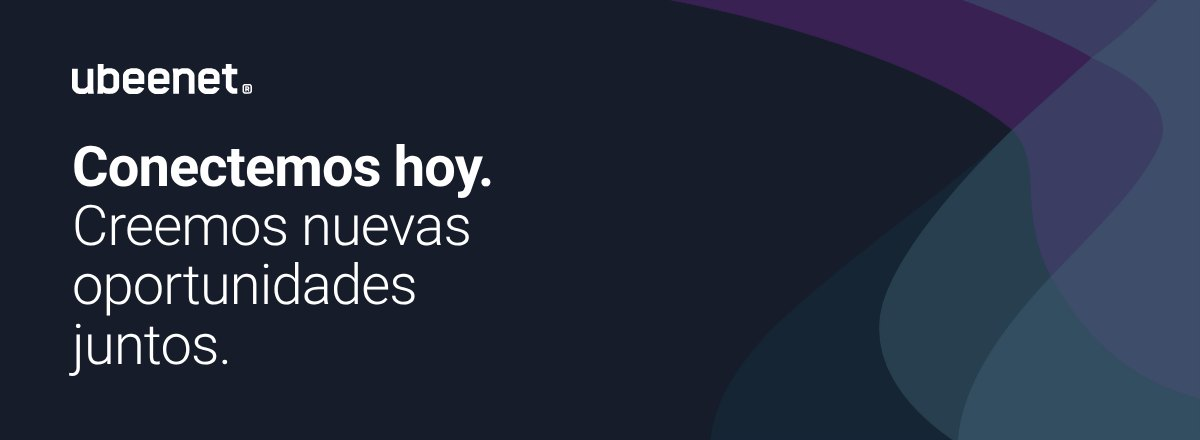
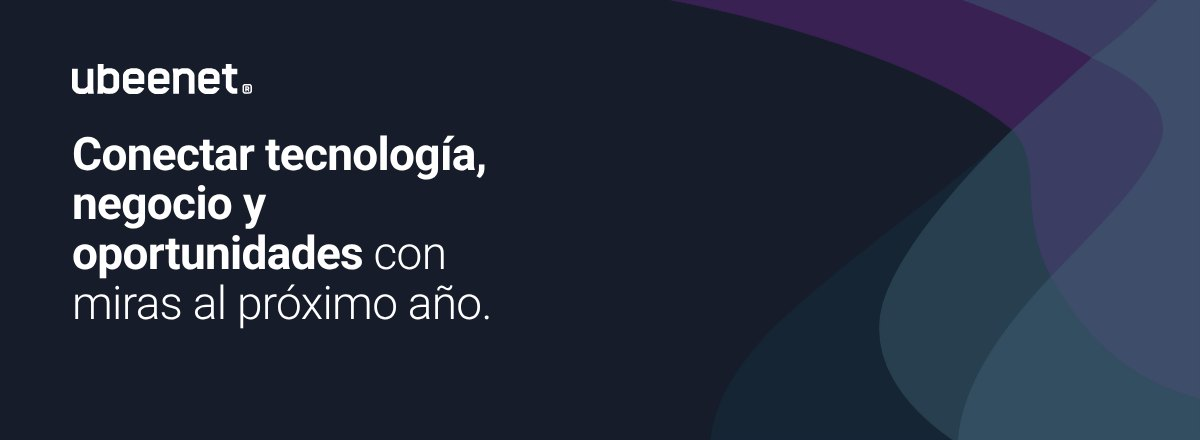
Hero con el texto de la invitación oficial y Adistec en marcas aliadas
- Antetítulo 'Una invitación para', titular 'Conectar tecnología, negocio y oportunidades
  con miras al próximo año.' y subtítulo de la invitación; meta, OG y encabezado de correos igual
- Marcas aliadas (nombre y orden de la invitación): Veeam, ExaGrid, Fortinet, Nutanix, Adistec

Claude-Session: https://claude.ai/code/session_01TdaMnfg424ZMKrGWqLmLWb

Changed region(s): [[0.0617, 0.2955, 0.4317, 0.8568]]

diff --git a/src/config/event.ts b/src/config/event.ts
@@ -44,18 +44,18 @@ export const event = {
     note: 'Contaremos con servicio de valet parking.',
   },
   meta: {
-    title: 'Conectemos hoy · Ubeenet · 26 de noviembre de 2026',
+    title: 'Conectar tecnología, negocio y oportunidades · Ubeenet · 26 de noviembre de 2026',
     description:
-      'Regístrate y acompáñanos en una tarde para compartir ideas, fortalecer relaciones y descubrir nuevas oportunidades de negocios. Jueves 26 de noviembre de 2026, Hotel Campos Polanco, CDMX.',
+      'Una tarde para compartir ideas y explorar oportunidades juntos. Jueves 26 de noviembre de 2026, 5:45 pm, Hotel Campos Polanco, CDMX. Regístrate.',
   },
   hero: {
-    // Cada frase va en su propia línea; el contraste de pesos (700/300) viene de la invitación.
+    // Textos de la invitación oficial. El titular corre seguido; el contraste de pesos (700/300) viene de ella.
+    eyebrow: 'Una invitación para',
     title: [
-      { text: 'Conectemos hoy.', weight: 700 },
-      { text: 'Creemos nuevas oportunidades juntos.', weight: 300 },
+      { text: 'Conectar tecnología, negocio y oportunidades', weight: 700 },
+      { text: ' con miras al próximo año.', weight: 300 },
     ],
-    subtitle:
-      'Regístrate y acompáñanos en una tarde para compartir ideas, fortalecer relaciones y descubrir nuevas oportunidades de negocios.',
+    subtitle: 'Una tarde para compartir ideas y explorar oportunidades juntos.',
     day: 'Jueves',
     date: '26 de noviembre',
   },
@@ -113,14 +113,16 @@ export const event = {
     photoAlt: 'Patio del Hotel Campos Polanco de noche: mesas de madera, sillas tejidas, plantas y lámparas colgantes frente a un muro de ladrillo iluminado.',
   },
   sponsors: {
-    title: 'Patrocinadores',
+    title: 'Marcas aliadas', // como en la invitación oficial
     // Logos monocromos en public/brand/sponsors (generados desde los archivos del cliente).
     // width/height: tamaño del PNG, para dimensionarlos con el mismo peso visual.
     items: [
-      { name: 'Fortinet', file: 'fortinet.png', width: 480, height: 55 },
-      { name: 'Nutanix', file: 'nutanix.png', width: 480, height: 61 },
+      // Mismo orden que la invitación.
       { name: 'Veeam', file: 'veeam.png', width: 428, height: 76 },
       { name: 'ExaGrid', file: 'exagrid.png', width: 480, height: 96 },
+      { name: 'Fortinet', file: 'fortinet.png', width: 480, height: 55 },
+      { name: 'Nutanix', file: 'nutanix.png', width: 480, height: 61 },
+      { name: 'Adistec', file: 'adistec.png', width: 480, height: 133 },
     ],
   },
   faq: {

diff --git a/supabase/functions/_shared/event.ts b/supabase/functions/_shared/event.ts
@@ -45,18 +45,18 @@ export const event = {
     note: 'Contaremos con servicio de valet parking.',
   },
   meta: {
-    title: 'Conectemos hoy · Ubeenet · 26 de noviembre de 2026',
+    title: 'Conectar tecnología, negocio y oportunidades · Ubeenet · 26 de noviembre de 2026',
     description:
-      'Regístrate y acompáñanos en una tarde para compartir ideas, fortalecer relaciones y descubrir nuevas oportunidades de negocios. Jueves 26 de noviembre de 2026, Hotel Campos Polanco, CDMX.',
+      'Una tarde para compartir ideas y explorar oportunidades juntos. Jueves 26 de noviembre de 2026, 5:45 pm, Hotel Campos Polanco, CDMX. Regístrate.',
   },
   hero: {
-    // Cada frase va en su propia línea; el contraste de pesos (700/300) viene de la invitación.
+    // Textos de la invitación oficial. El titular corre seguido; el contraste de pesos (700/300) viene de ella.
+    eyebrow: 'Una invitación para',
     title: [
-      { text: 'Conectemos hoy.', weight: 700 },
-      { text: 'Creemos nuevas oportunidades juntos.', weight: 300 },
+      { text: 'Conectar tecnología, negocio y oportunidades', weight: 700 },
+      { text: ' con miras al próximo año.', weight: 300 },
     ],
-    subtitle:
-      'Regístrate y acompáñanos en una tarde para compartir ideas, fortalecer relaciones y descubrir nuevas oportunidades de negocios.',
+    subtitle: 'Una tarde para compartir ideas y explorar oportunidades juntos.',
     day: 'Jueves',
     date: '26 de noviembre',
   },
@@ -114,14 +114,16 @@ export const event = {
     photoAlt: 'Patio del Hotel Campos Polanco de noche: mesas de madera, sillas tejidas, plantas y lámparas colgantes frente a un muro de ladrillo iluminado.',
   },
   sponsors: {
-    title: 'Patrocinadores',
+    title: 'Marcas aliadas', // como en la invitación oficial
     // Logos monocromos en public/brand/sponsors (generados desde los archivos del cliente).
     // width/height: tamaño del PNG, para dimensionarlos con el mismo peso visual.
     items: [
-      { name: 'Fortinet', file: 'fortinet.png', width: 480, height: 55 },
-      { name: 'Nutanix', file: 'nutanix.png', width: 480, height: 61 },
+      // Mismo orden que la invitación.
       { name: 'Veeam', file: 'veeam.png', width: 428, height: 76 },
       { name: 'ExaGrid', file: 'exagrid.png', width: 480, height: 96 },
+      { name: 'Fortinet', file: 'fortinet.png', width: 480, height: 55 },
+      { name: 'Nutanix', file: 'nutanix.png', width: 480, height: 61 },
+      { name: 'Adistec', file: 'adistec.png', width: 480, height: 133 },
     ],
   },
   faq: {

diff --git a/supabase/functions/register/email.ts b/supabase/functions/register/email.ts
@@ -44,7 +44,7 @@ function layout(opts: { title: string; preheader: string; siteUrl: string; body:
       <table role="presentation" width="600" cellpadding="0" cellspacing="0" border="0" style="width:100%;max-width:600px;">
         <tr>
           <td style="padding:0;">
-            <img src="${header}" width="600" alt="Ubeenet · Conectemos hoy. Creemos nuevas oportunidades juntos." style="display:block;width:100%;max-width:600px;height:auto;border:0;border-radius:16px 16px 0 0;">
+            <img src="${header}" width="600" alt="Ubeenet · Conectar tecnología, negocio y oportunidades con miras al próximo año." style="display:block;width:100%;max-width:600px;height:auto;border:0;border-radius:16px 16px 0 0;">
           </td>
         </tr>
         <tr>

diff --git a/CLAUDE.md b/CLAUDE.md
@@ -19,6 +19,6 @@ Landing de registro del evento de networking de Ubeenet (no tiene nombre propio;
 - Recordatorio: función `reminder` + `.github/workflows/reminder.yml`, programado el miércoles 25 nov ~4:00 pm CDMX a todos los registrados (solo envía en las 48 h previas). *Run workflow* con `mode=test` manda una muestra a labs.publifix@gmail.com. Clave `REMINDER_KEY` derivada del `SUPABASE_ACCESS_TOKEN` en ambos workflows.
 - Supabase está en plan gratuito y se pausa tras ~7 días sin actividad (el formulario muestra "No pudimos guardar tu registro"). `.github/workflows/keepalive.yml` hace una consulta diaria para evitarlo; `.github/workflows/diag.yml` (manual) muestra el estado del proyecto, la base y la función. Si está `INACTIVE`, el usuario lo reactiva en Supabase → *Restore project*.
 - Plantillas de correo: `supabase/functions/register/email.ts` (confirmación al invitado, aviso interno y recordatorio). Encabezado `public/brand/email-header.jpg`, se regenera con `node scripts/email-assets.mjs`.
-- Hero = invitación "Save the date" del cliente: titular "Conectemos hoy. / Creemos nuevas oportunidades juntos." en Roboto (700/300), subtítulo del cliente y formas del fondo redibujadas en vector (`src/components/HeroShapes.astro`, colores exactos de la invitación). Sin video ni animación de fondo. El formulario va en el hero (desktop a la derecha, móvil debajo de los datos).
-- Patrocinadores (Fortinet, Nutanix, Veeam, ExaGrid): `Sponsors.astro`, entre "Qué vas a vivir" y la sede, al inicio del bloque claro. Logos monocromos en `public/brand/sponsors/` (generados desde los archivos del cliente) y dimensionados por área para igualar su peso visual; lista en `event.sponsors`.
+- Hero = invitación oficial del cliente: antetítulo "Una invitación para", titular "**Conectar tecnología, negocio y oportunidades** con miras al próximo año." en Roboto (700/300, corrido) y subtítulo "Una tarde para compartir ideas y explorar oportunidades juntos."; formas del fondo redibujadas en vector (`src/components/HeroShapes.astro`, colores exactos de la invitación). Sin video ni animación de fondo. El formulario va en el hero (desktop a la derecha, móvil debajo de los datos). La imagen OG (`scripts/og-image.mjs`) y el encabezado de correos (`scripts/email-assets.mjs`) llevan el mismo titular.
+- Marcas aliadas (Veeam, ExaGrid, Fortinet, Nutanix, Adistec; mismo orden y nombre que la invitación): `Sponsors.astro`, entre "Qué vas a vivir" y la sede, al inicio del bloque claro. Logos monocromos en `public/brand/sponsors/` (generados desde los archivos del cliente) y dimensionados por área para igualar su peso visual; lista en `event.sponsors`.
 - Diseño: `DESIGN.md`. Producto: `PRODUCT.md`.
